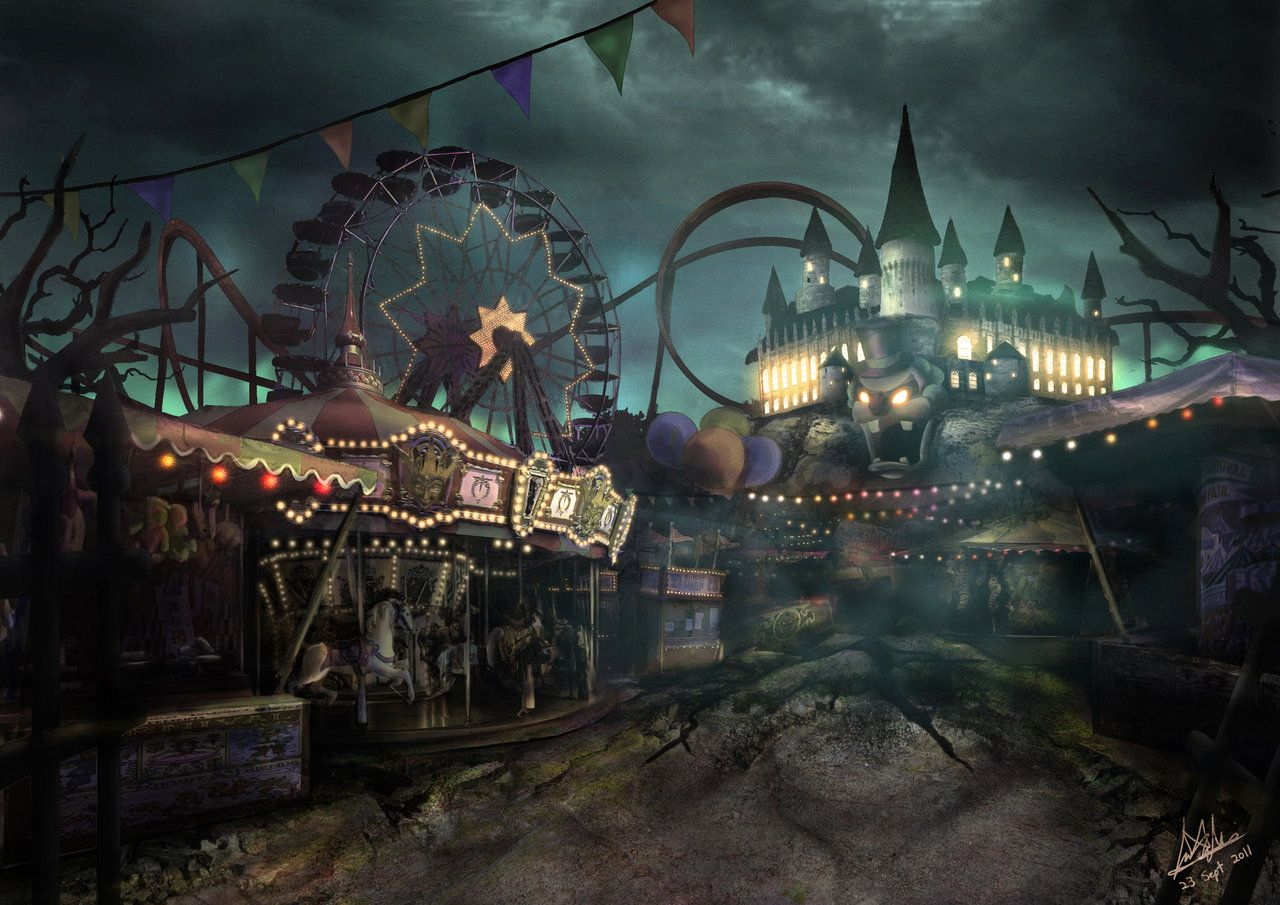
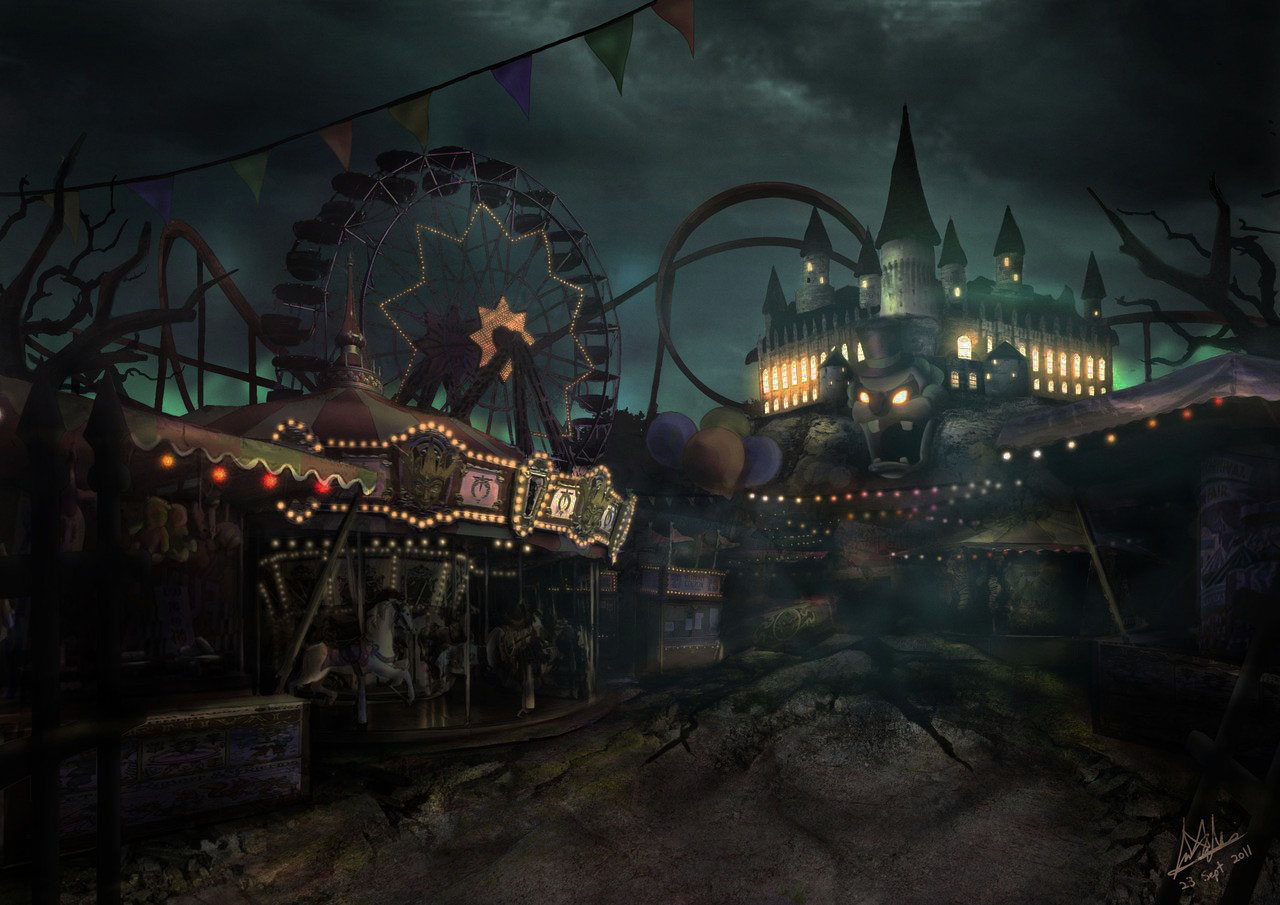
adjusted bg images and removed duck from mobile view

diff --git a/index.html b/index.html
@@ -125,9 +125,7 @@
                   <a href="http://kelowna2022.com" target="_blank">
                     <img src="./images/election2.jpg" />
                   </a>
-                  <div class="caption">
-                    Choose a candidate and seal their fate!
-                  </div>
+                  <div class="caption">Flex your democratic muscle!</div>
                 </div>
               </div>
               <a href="http://kelowna2022.com" target="_blank">
@@ -193,9 +191,7 @@
                   <a href="https://whatami.netlify.app/" target="_blank">
                     <img src="./images/facedetect.jpg" />
                   </a>
-                  <div class="caption">
-                    Choose a candidate and seal their fate!
-                  </div>
+                  <div class="caption">Machines have learned to see!</div>
                 </div>
               </div>
               <a href="https://whatami.netlify.app/" target="_blank">
@@ -278,7 +274,7 @@
                   >
                     <img src="./images/colorpicka.webp" />
                   </a>
-                  <div class="caption">What shade does your heart desire?</div>
+                  <div class="caption">What colour will you choose?</div>
                 </div>
               </div>
               <a href="https://ianjojo.github.io/colorpicka/" target="_blank">
@@ -351,9 +347,7 @@
                   <a href="https://ghostforesttt.netlify.app/" target="_blank">
                     <img src="./images/ghostforest.webp" />
                   </a>
-                  <div class="caption">
-                    You'll never see the same forest twice!
-                  </div>
+                  <div class="caption">A machine made forest!</div>
                 </div>
               </div>
               <a href="https://ghostforesttt.netlify.app/" target="_blank">
@@ -420,9 +414,7 @@
                   >
                     <img src="./images/music.webp" />
                   </a>
-                  <div class="caption">
-                    What ghastly notes will you hear today?
-                  </div>
+                  <div class="caption">Machine music!</div>
                 </div>
               </div>
               <a

diff --git a/script.js b/script.js
@@ -22,8 +22,6 @@ let shocked = document.querySelector(".shocked");
 let duck = document.querySelector(".layer1");
 let pin4 = document.querySelector(".pin4");
 
-console.log(audio);
-
 on_off.addEventListener("click", function () {
   if (audio.paused) {
     audio.play();
@@ -32,8 +30,6 @@ on_off.addEventListener("click", function () {
     audio.pause();
     on_off.textContent = "🔕";
   }
-  // console.log("playing");
-  // audio.play();
 });
 
 function music_stop() {

diff --git a/styles.css b/styles.css
@@ -312,6 +312,9 @@ a:hover {
   background-size: contain;
   background-repeat: no-repeat;
   z-index: 1; }
+  @media (max-width: 450px) {
+    .layer1 {
+      display: none; } }
 
 .layer2 {
   overflow-x: hidden !important;
@@ -502,7 +505,7 @@ a:hover {
 
 .p2-bg {
   background-image: url("./images/scary.jpeg");
-  background-size: contain; }
+  background-size: cover; }
   @media (max-width: 450px) {
     .p2-bg {
       background-size: cover;

diff --git a/wordle.js b/wordle.js
@@ -1,7 +1,5 @@
 import { testDictionary, realDictionary } from "./dictionary.js";
 const notification = document.querySelector(".notification");
-// for testing purposes, make sure to use the test dictionary
-console.log("test dictionary:", testDictionary);
 
 const dictionary = realDictionary;
 const state = {

diff --git a/styles/partials/Projects.scss b/styles/partials/Projects.scss
@@ -99,7 +99,7 @@
 }
 .p2-bg {
   background-image: url("./images/scary.jpeg");
-  background-size: contain;
+  background-size: cover;
   @include mobile {
     background-size: cover;
     background-position: 50%;

diff --git a/styles/partials/Hero.scss b/styles/partials/Hero.scss
@@ -241,6 +241,10 @@
 
   background-repeat: no-repeat;
   z-index: 1;
+
+  @include mobile {
+    display: none;
+  }
 }
 .layer2 {
   overflow-x: hidden !important;
